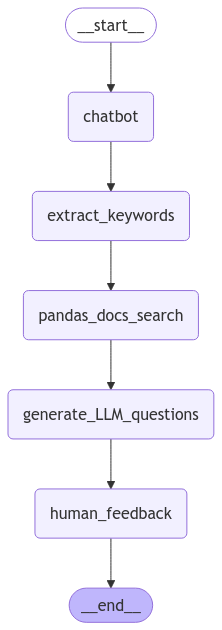
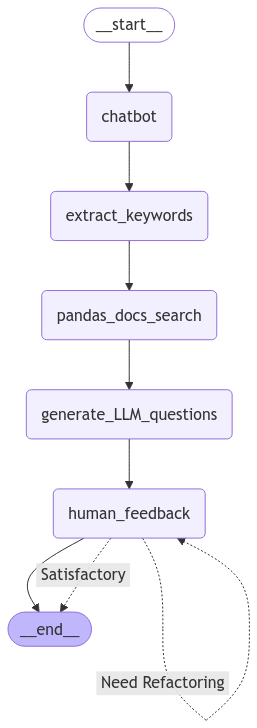
Made the final graph strauture for the LangGraph

Changed region(s): [[0.027, 0.0, 0.973, 0.9952], [0.9459, 0.8143, 0.973, 0.9349]]

diff --git a/Leetpandas/LeetPandas.py b/Leetpandas/LeetPandas.py
@@ -20,6 +20,9 @@ def chatbot(state: State):
 def extract_keywords(state: State):
     pass 
 
+def search_db(state: State):
+    pass 
+
 def pandas_docs_search(state: State):
     pass 
 
@@ -29,8 +32,26 @@ def generate_LLM_questions(sate: State):
 def human_feedback(state: State):
     pass
 
+def refactor_question(state: State):
+    pass
+
+def save_to_db(state: State):
+    pass
+
+
+
+## Conditional function
+def check_approval(state: State):
+    pass 
+
+def check_existance(state: State):
+    pass 
+
 
 ### NODES ENDS HERE ########
+
+### TOOOOOOLS
+
 
 
 ### GRAPH STARTS HERE
@@ -38,20 +59,41 @@ def human_feedback(state: State):
 ## Nodes
 graph_builder.add_node("chatbot",chatbot)
 graph_builder.add_node("extract_keywords",extract_keywords)
+graph_builder.add_node('search_db',search_db)
 graph_builder.add_node("pandas_docs_search",pandas_docs_search)
 graph_builder.add_node("generate_LLM_questions",generate_LLM_questions)
 graph_builder.add_node("human_feedback",human_feedback)
-
+graph_builder.add_node("refactor_question",refactor_question)
+graph_builder.add_node("save_to_db",save_to_db)
 
 
 ## Edges
 graph_builder.add_edge(START, "chatbot")
 graph_builder.add_edge('chatbot','extract_keywords')
-graph_builder.add_edge('extract_keywords','pandas_docs_search')
+
+graph_builder.add_conditional_edges(
+    "extract_keywords",
+    check_existance, 
+    {
+        "have_10_questions_already": "human_feedback",
+        "no_questions": "pandas_docs_search",
+    }
+)
+
 graph_builder.add_edge('pandas_docs_search','generate_LLM_questions')
 graph_builder.add_edge('generate_LLM_questions','human_feedback')
-# graph_builder.add_conditional_edges('human_feedback', tools_condition) ## removed for now
-graph_builder.add_edge("human_feedback", END)
+graph_builder.add_conditional_edges(
+    "human_feedback",
+    check_approval, 
+    {
+        "Need Refactoring": "refactor_question", 
+        "Satisfactory": 'save_to_db',  
+    },
+)
+graph_builder.add_edge('save_to_db',END)
+graph_builder.add_edge('refactor_question','human_feedback')
+
+
 ### GRAPH ENDS HERE
 
 graph = graph_builder.compile()
@@ -67,7 +109,7 @@ png_image = graph.get_graph().draw_mermaid_png()
 display(Image(png_image))
 
 # Save the image to a file
-with open("graph_output.png", "wb") as file:
+with open("Leetpandas/graph_output.png", "wb") as file:
     file.write(png_image)
 
 print("Image saved as 'graph_output.png'")
